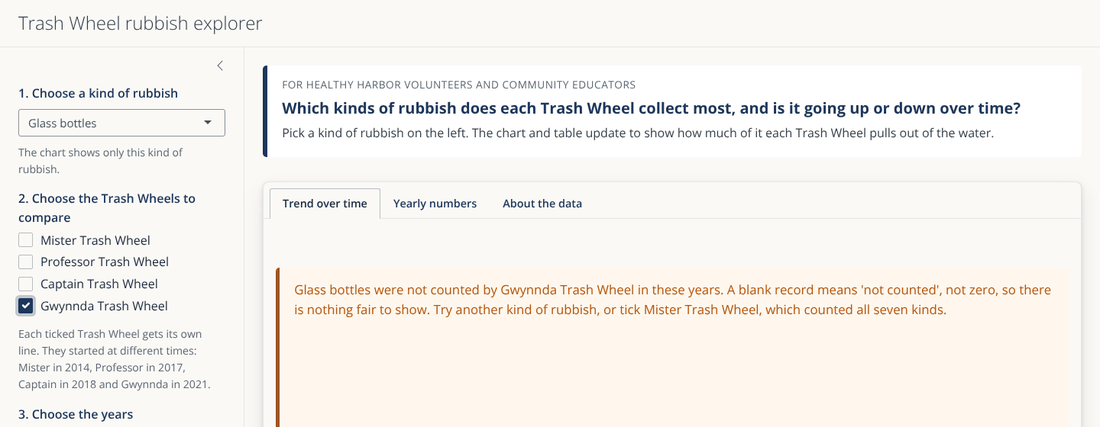
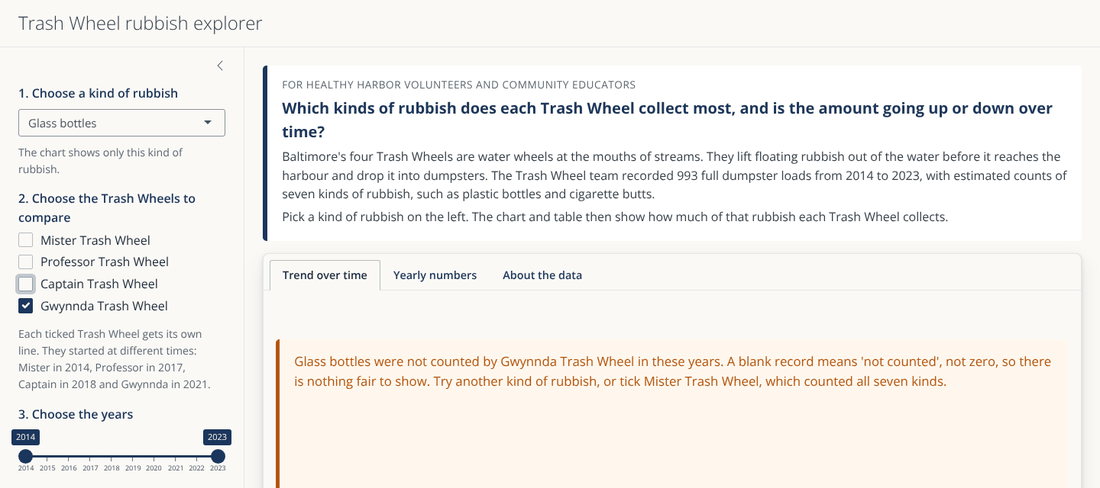
Rebuild pkgdown site

diff --git a/docs/reference/run_app.html b/docs/reference/run_app.html
@@ -1,11 +1,11 @@
 <!DOCTYPE html>
 <!-- Generated by pkgdown: do not edit by hand --><html lang="en"><head><meta http-equiv="Content-Type" content="text/html; charset=UTF-8"><meta charset="utf-8"><meta http-equiv="X-UA-Compatible" content="IE=edge"><meta name="viewport" content="width=device-width, initial-scale=1, shrink-to-fit=no"><title>Launch the Trash Wheel rubbish explorer — run_app • trashwheels</title><script src="../deps/jquery-3.6.0/jquery-3.6.0.min.js"></script><meta name="viewport" content="width=device-width, initial-scale=1, shrink-to-fit=no"><link href="../deps/bootstrap-5.3.8/bootstrap.min.css" rel="stylesheet"><script src="../deps/bootstrap-5.3.8/bootstrap.bundle.min.js"></script><link href="../deps/font-awesome-6.5.2/css/all.min.css" rel="stylesheet"><link href="../deps/font-awesome-6.5.2/css/v4-shims.min.css" rel="stylesheet"><script src="../deps/headroom-0.11.0/headroom.min.js"></script><script src="../deps/headroom-0.11.0/jQuery.headroom.min.js"></script><script src="../deps/bootstrap-toc-1.0.1/bootstrap-toc.min.js"></script><script src="../deps/clipboard.js-2.0.11/clipboard.min.js"></script><script src="../deps/search-1.0.0/autocomplete.jquery.min.js"></script><script src="../deps/search-1.0.0/fuse.min.js"></script><script src="../deps/search-1.0.0/mark.min.js"></script><!-- pkgdown --><script src="../pkgdown.js"></script><meta property="og:title" content="Launch the Trash Wheel rubbish explorer — run_app"><meta name="description" content="Opens a Shiny app for Healthy Harbor volunteers and community educators.
 It helps them see which kinds of rubbish each Trash Wheel collects most
-per dumpster load, and whether that is going up or down over time. The
+per dumpster load, and whether the amount is going up or down over time. The
 app uses the trash_loads data, summarise_rubbish() and
 plot_rubbish() from this package, so it needs no other files."><meta property="og:description" content="Opens a Shiny app for Healthy Harbor volunteers and community educators.
 It helps them see which kinds of rubbish each Trash Wheel collects most
-per dumpster load, and whether that is going up or down over time. The
+per dumpster load, and whether the amount is going up or down over time. The
 app uses the trash_loads data, summarise_rubbish() and
 plot_rubbish() from this package, so it needs no other files."></head><body>
     <a href="#main" class="visually-hidden-focusable">Skip to contents</a>
@@ -44,7 +44,7 @@ plot_rubbish() from this package, so it needs no other files."></head><body>
     <div class="ref-description section level2">
     <p>Opens a Shiny app for Healthy Harbor volunteers and community educators.
 It helps them see which kinds of rubbish each Trash Wheel collects most
-per dumpster load, and whether that is going up or down over time. The
+per dumpster load, and whether the amount is going up or down over time. The
 app uses the <a href="trash_loads.html">trash_loads</a> data, <code><a href="summarise_rubbish.html">summarise_rubbish()</a></code> and
 <code><a href="plot_rubbish.html">plot_rubbish()</a></code> from this package, so it needs no other files.</p>
     </div>

diff --git a/docs/index.html b/docs/index.html
@@ -53,9 +53,10 @@
 </h1></div>
 <p><strong>trashwheels</strong> helps Healthy Harbor volunteers and community educators answer one question:</p>
 <blockquote>
-<p>Which kinds of rubbish does each of Baltimore’s Trash Wheels collect most, and is it going up or down over time?</p>
+<p>Which kinds of rubbish does each of Baltimore’s Trash Wheels collect most, and is the amount going up or down over time?</p>
 </blockquote>
-<p>It contains cleaned data on every dumpster load the Trash Wheels collected from 2014 to 2023, two functions to summarise and plot it, and a Shiny app for exploring it.</p>
+<p>Baltimore’s four Trash Wheels (Mister, Professor, Captain and Gwynnda) are water wheels at the mouths of streams. They lift floating rubbish out of the water before it reaches the harbour and drop it into dumpsters.</p>
+<p>The package contains cleaned data on all 993 dumpster loads the Trash Wheels collected from 2014 to 2023, two functions to summarise and plot the counts, and a Shiny app for exploring the data.</p>
 <p><strong>Documentation website:</strong> <a href="https://etc5523-2026.github.io/etc5523-assignment-4-prat0012-ai/" class="uri">https://etc5523-2026.github.io/etc5523-assignment-4-prat0012-ai/</a></p>
 <div class="section level2">
 <h2 id="what-is-in-the-package">What is in the package<a class="anchor" aria-label="anchor" href="#what-is-in-the-package"></a>

diff --git a/docs/articles/trashwheels.html b/docs/articles/trashwheels.html
@@ -66,8 +66,8 @@ seven kinds of rubbish.</p>
 <p>This package is for <strong>Healthy Harbor volunteers and community
 educators</strong> who want to answer one question:</p>
 <blockquote>
-<p>Which kinds of rubbish does each Trash Wheel collect most, and is it
-going up or down over time?</p>
+<p>Which kinds of rubbish does each Trash Wheel collect most, and is the
+amount going up or down over time?</p>
 </blockquote>
 <p>This guide shows how to install the package, use the app, read its
 results, and do the same analysis in your own R code.</p>

diff --git a/docs/index.md b/docs/index.md
@@ -4,11 +4,16 @@
 answer one question:
 
 > Which kinds of rubbish does each of Baltimore’s Trash Wheels collect
-> most, and is it going up or down over time?
+> most, and is the amount going up or down over time?
 
-It contains cleaned data on every dumpster load the Trash Wheels
-collected from 2014 to 2023, two functions to summarise and plot it, and
-a Shiny app for exploring it.
+Baltimore’s four Trash Wheels (Mister, Professor, Captain and Gwynnda)
+are water wheels at the mouths of streams. They lift floating rubbish
+out of the water before it reaches the harbour and drop it into
+dumpsters.
+
+The package contains cleaned data on all 993 dumpster loads the Trash
+Wheels collected from 2014 to 2023, two functions to summarise and plot
+the counts, and a Shiny app for exploring the data.
 
 **Documentation website:**
 <https://etc5523-2026.github.io/etc5523-assignment-4-prat0012-ai/>

diff --git a/docs/reference/run_app.md b/docs/reference/run_app.md
@@ -2,8 +2,8 @@
 
 Opens a Shiny app for Healthy Harbor volunteers and community educators.
 It helps them see which kinds of rubbish each Trash Wheel collects most
-per dumpster load, and whether that is going up or down over time. The
-app uses the
+per dumpster load, and whether the amount is going up or down over time.
+The app uses the
 [trash_loads](https://etc5523-2026.github.io/etc5523-assignment-4-prat0012-ai/reference/trash_loads.md)
 data,
 [`summarise_rubbish()`](https://etc5523-2026.github.io/etc5523-assignment-4-prat0012-ai/reference/summarise_rubbish.md)

diff --git a/docs/articles/trashwheels.md b/docs/articles/trashwheels.md
@@ -8,8 +8,8 @@ seven kinds of rubbish.
 This package is for **Healthy Harbor volunteers and community
 educators** who want to answer one question:
 
-> Which kinds of rubbish does each Trash Wheel collect most, and is it
-> going up or down over time?
+> Which kinds of rubbish does each Trash Wheel collect most, and is the
+> amount going up or down over time?
 
 This guide shows how to install the package, use the app, read its
 results, and do the same analysis in your own R code.
